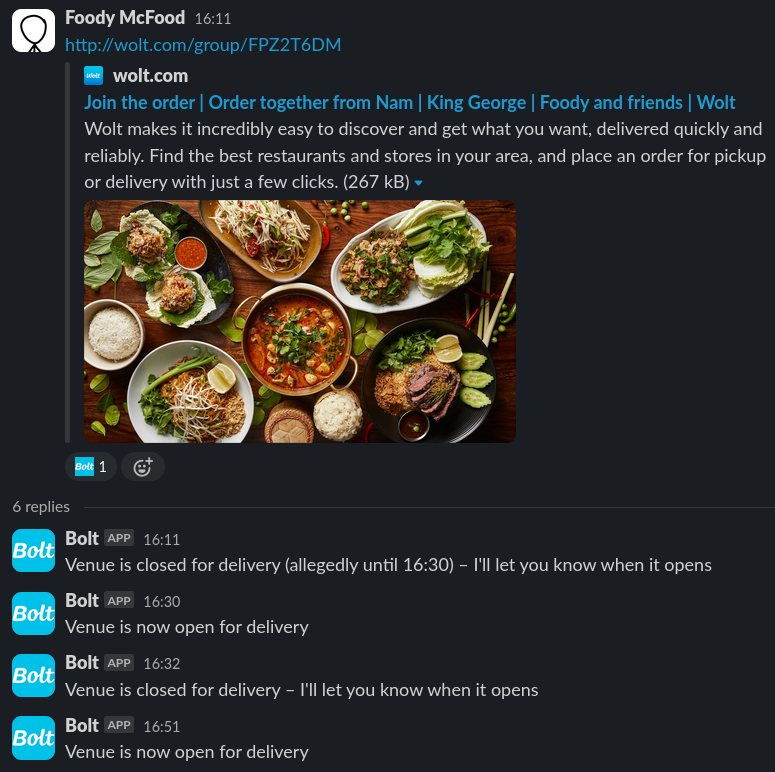
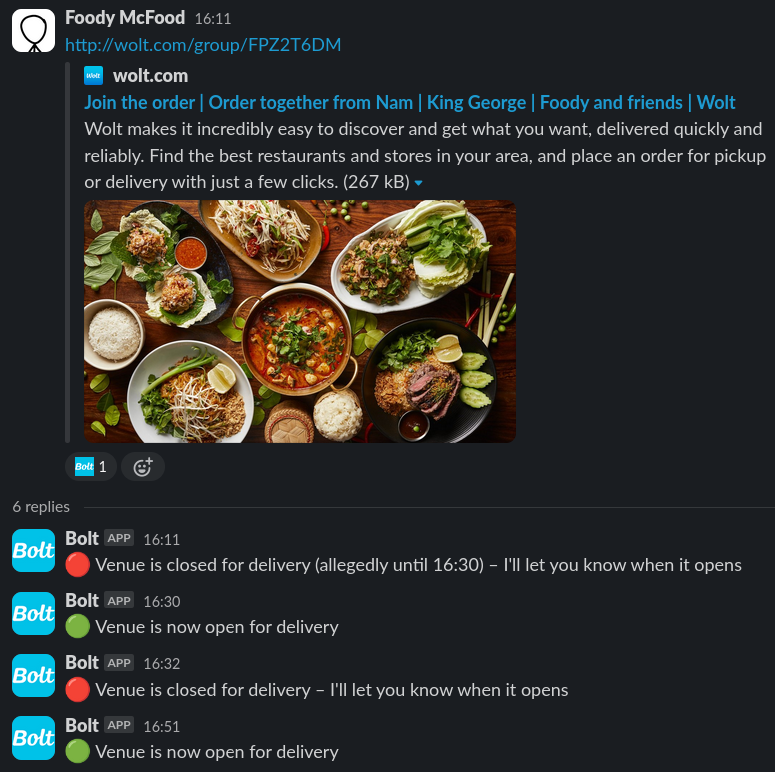
Venue monitoring bugfix (#19)
* Fix IsToday

* Add red/green circles to monitor_venue.png

Changed region(s): [[0.0619, 0.8705, 0.7432, 0.9948], [0.0619, 0.715, 0.96, 0.7461], [0.0619, 0.7772, 0.4335, 0.8394]]

diff --git a/service/utils.go b/service/utils.go
@@ -7,5 +7,5 @@ func IsUnixZero(t time.Time) bool {
 }
 
 func IsToday(t time.Time, timezone *time.Location) bool {
-	return t.In(timezone).Format("2006-01-02") != time.Now().In(timezone).Format("2006-01-02")
+	return t.In(timezone).Format("2006-01-02") == time.Now().In(timezone).Format("2006-01-02")
 }
